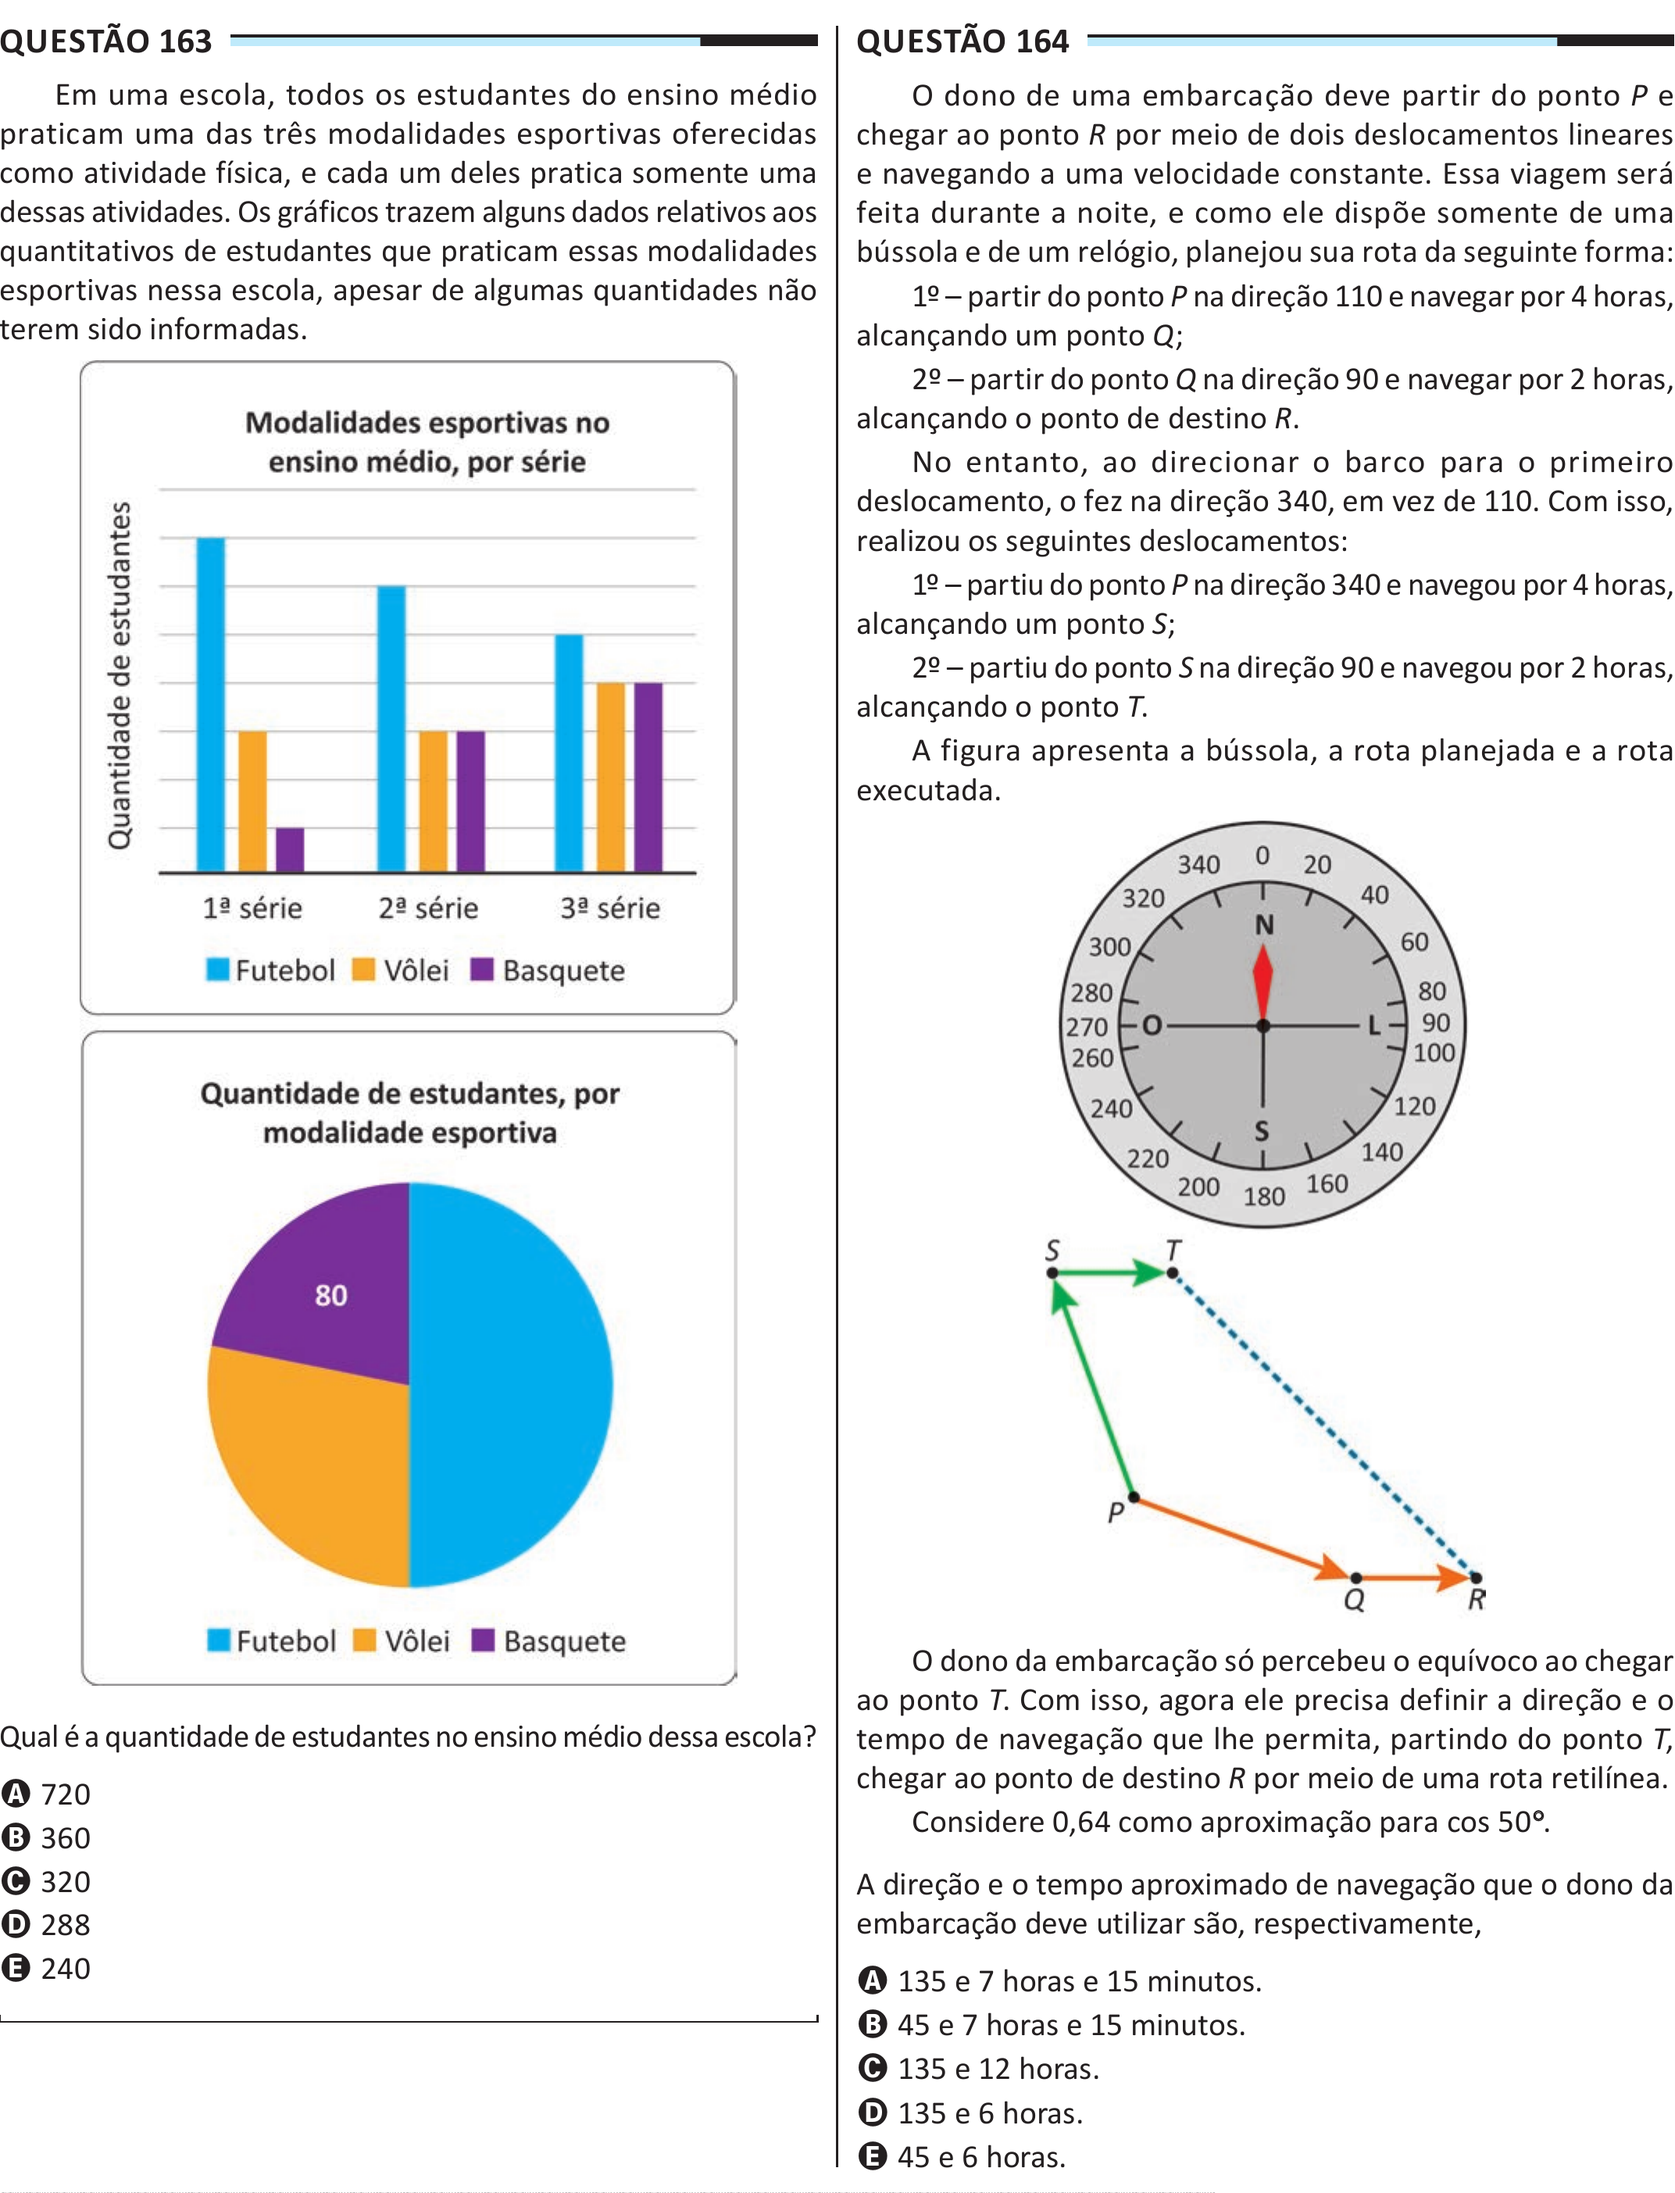
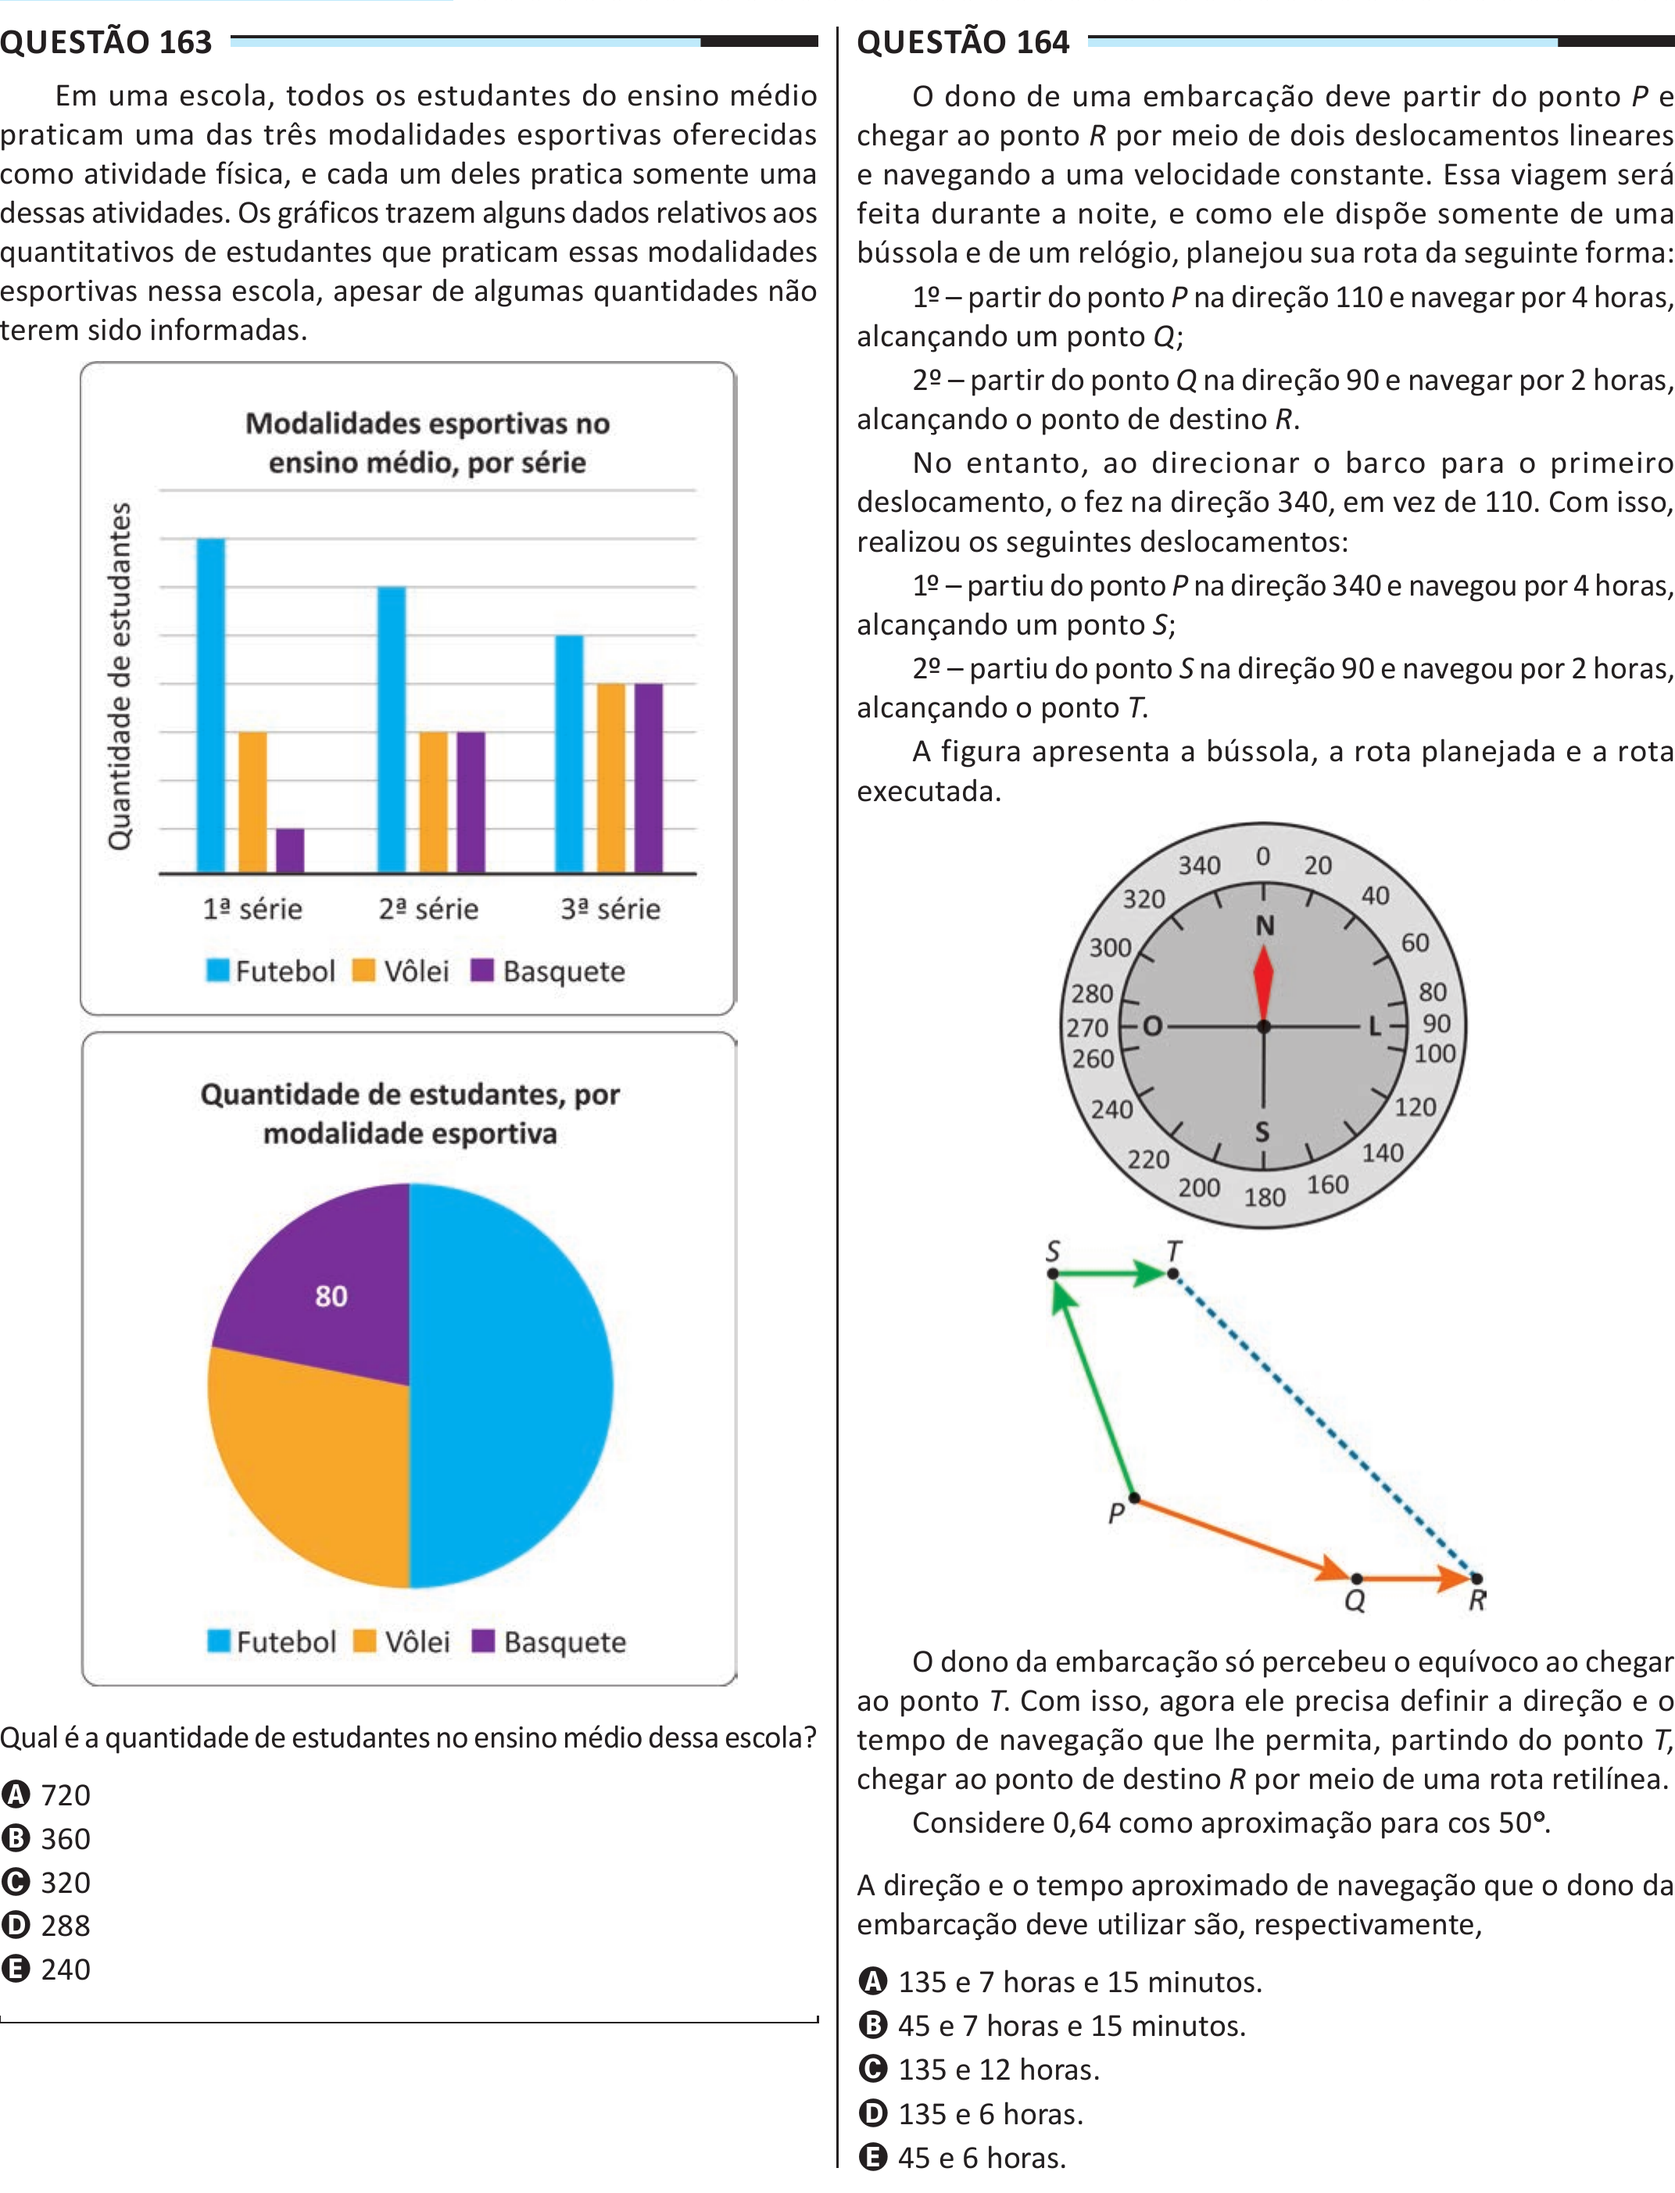
corto bordas

diff --git a/2Passo-RemoverBordasPaginasInteiras/remover-bordas.py b/2Passo-RemoverBordasPaginasInteiras/remover-bordas.py
@@ -1,5 +1,5 @@
 """
-Propósito: remover as bordas externas das páginas
+Propósito: remover as bordas externas das páginas (diferenciando páginas pares e ímpares)
 Autor: Alexandre Nassar de Peder
 Criação: 02/10/2025
 Atualização: 03/06/2026
@@ -17,6 +17,7 @@ OBS5: execute o código, e abra as imagens para conferir se as bordas foram remo
 
 from PIL import Image
 import os
+import re
 
 pasta_imagens = "imagens-convertidas"
 pasta_saida = "sem-bordas-externas"
@@ -30,7 +31,16 @@ for nome_arquivo in os.listdir(pasta_imagens):
 
         largura, altura = imagem.size
 
-        caixa_corte = (240, 443, largura - 269, altura - 290) # ATUALIZE AQUI OS VALORES DE CORTE (esquerda, superior, direita, inferior)
+        # Extrai o número presente no nome do arquivo (ex: "pagina_enem_10.png" -> 10)
+        numero_pagina = int(re.search(r'\d+', nome_arquivo).group())
+
+        if numero_pagina % 2 == 0:
+            # Página PAR
+            caixa_corte = (269, 442, largura - 240, altura - 291)
+        else:
+            # Página ÍMPAR
+            caixa_corte = (240, 442, largura - 270, altura - 291)
+
         imagem_cortada = imagem.crop(caixa_corte)
 
         caminho_saida = os.path.join(pasta_saida, nome_arquivo)
